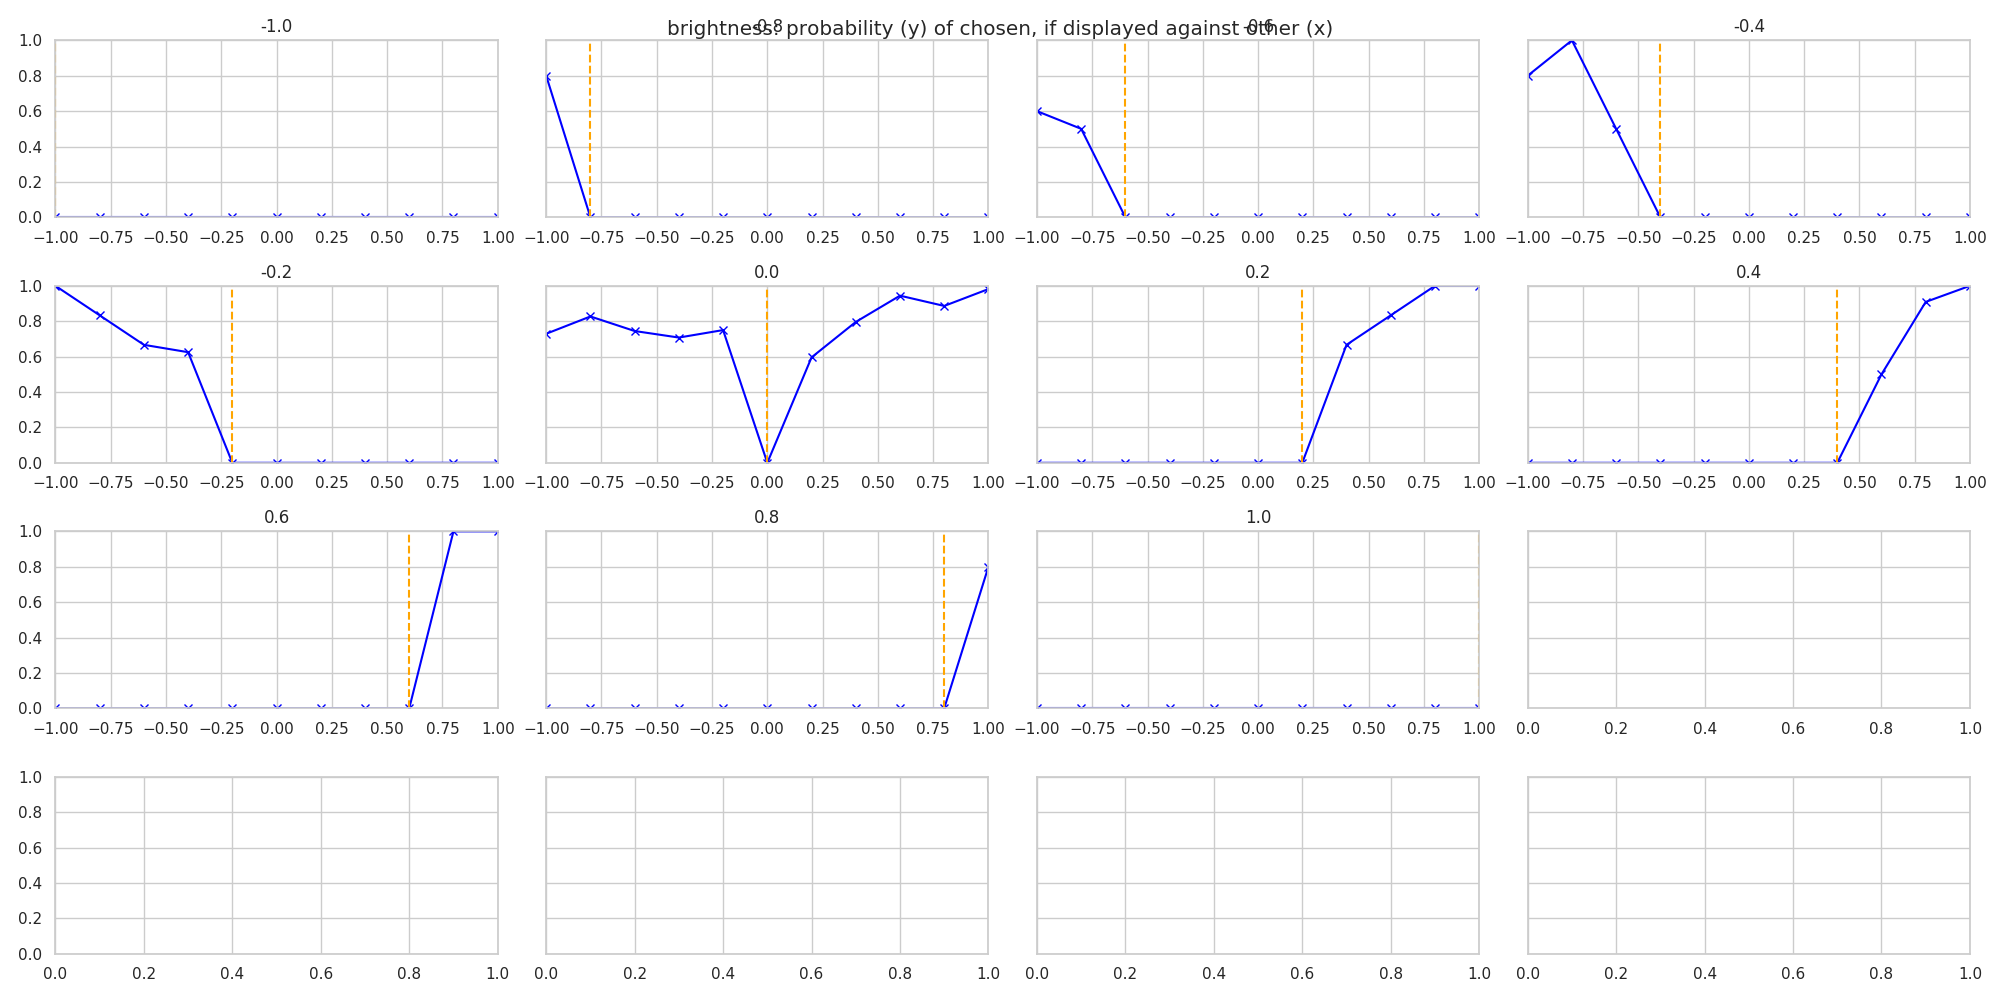
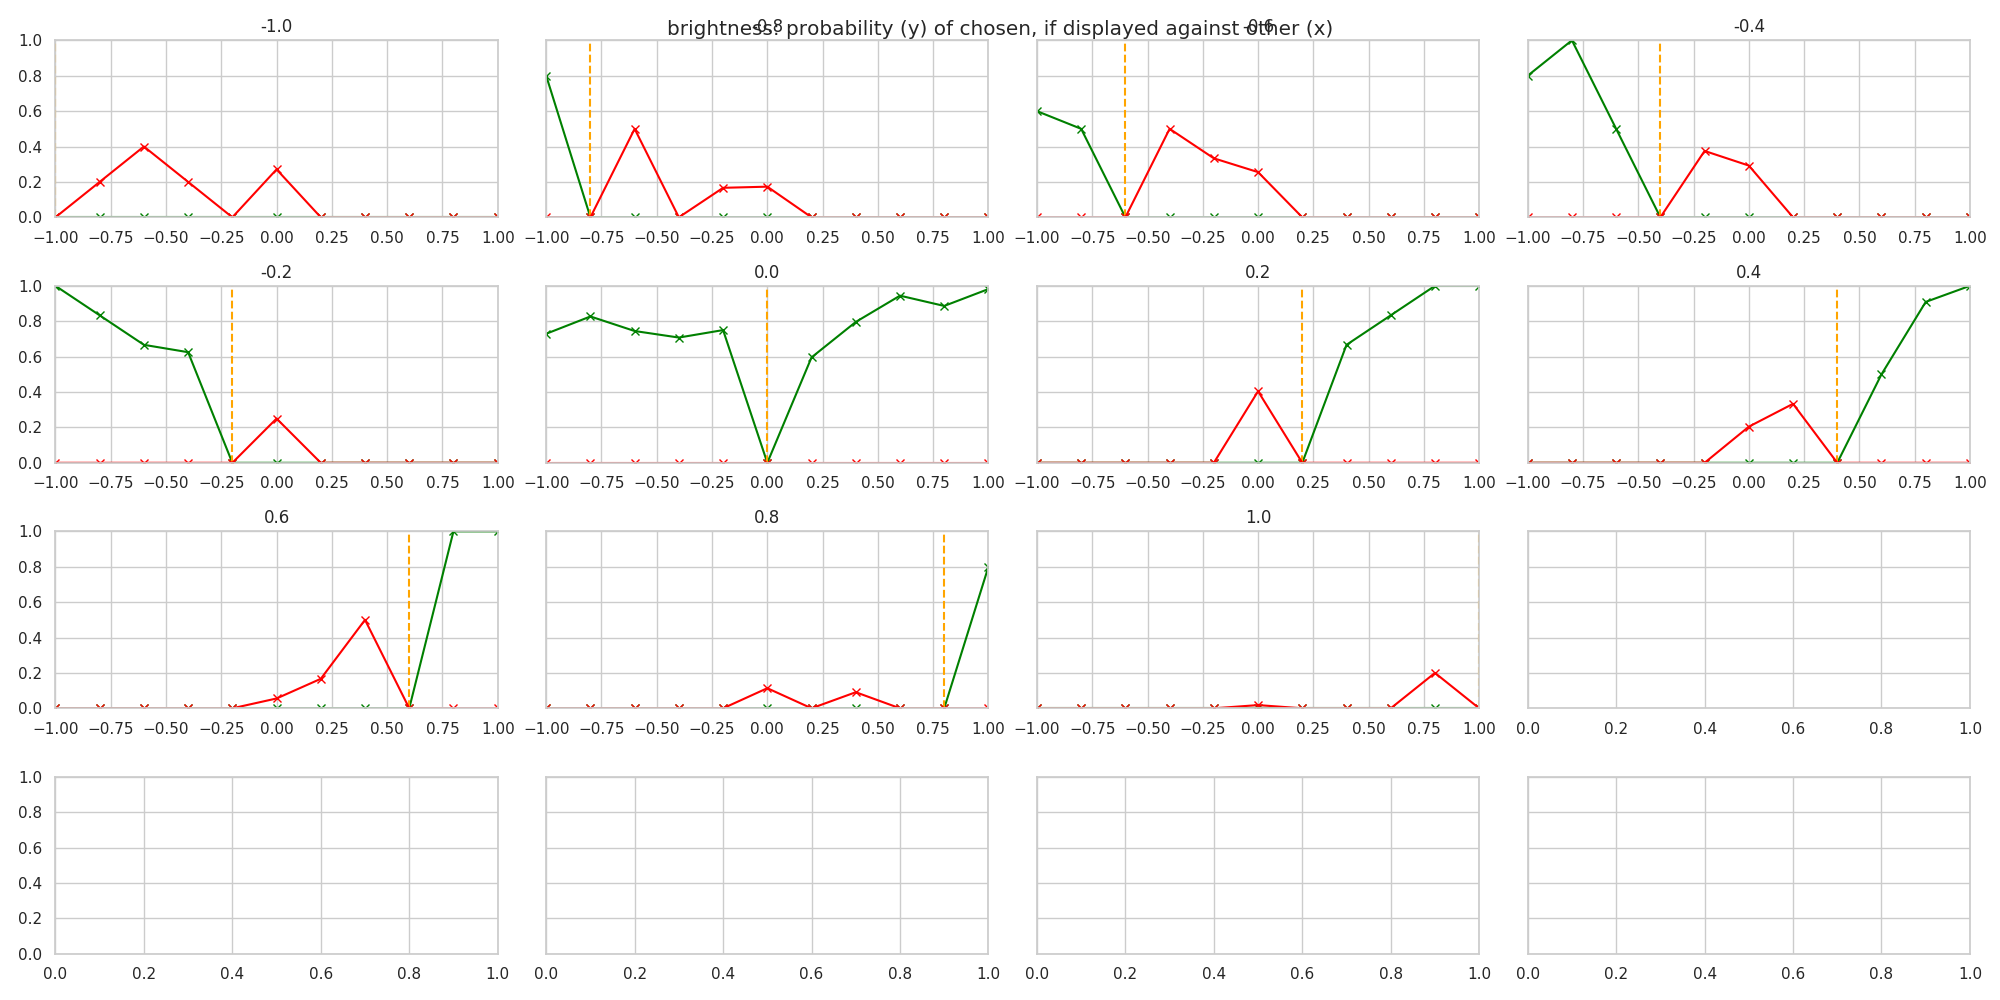
fixed graphs

diff --git a/survey/analyser.py b/survey/analyser.py
@@ -19,7 +19,7 @@ from edit_image import parameter_range
 sns.set(style="whitegrid")
 
 submission_log = Path.home() / "eclipse-workspace" / "NIAA" / "survey" / "survey.csv"  # type: Path
-submission_log = Path("/scratch") / "stud" / "pfister" / "NIAA" / "pexels" / "logs" / "survey_NIMA.csv"  # type: Path
+# submission_log = Path("/scratch") / "stud" / "pfister" / "NIAA" / "pexels" / "logs" / "survey_NIMA.csv"  # type: Path
 plot_dir = Path.home() / "eclipse-workspace" / "NIAA" / "analysis" / "survey"  # type: Path
 
 plot_dir.mkdir(parents=True, exist_ok=True)
@@ -153,14 +153,20 @@ for key in parameter_range.keys():
 
     chosenVS = tmp.groupby(["smallerChosen", "smallChange", "largeChange"])[["smallerChosen"]].size().to_frame("size").reset_index()
     allComparisons = tmp.groupby(["smallChange", "largeChange"])[["smallChange"]].size().to_frame("size").reset_index()
-
-    if "leftNIMA" in sub_df.columns and "rightNIMA" in sub_df.columns:
-        analyzeDict[key]["sameNIMA"] = tmp["sameNIMA"].value_counts().to_dict()
-
     for _, row in chosenVS[chosenVS.smallerChosen == True].iterrows():
         if len(allComparisons[(allComparisons.smallChange == row["smallChange"]) & (allComparisons.largeChange == row["largeChange"])]) > 1:
             raise KeyError("what?")
         analyzeDict[key]["asSmallerChosenVS"][row["smallChange"]][row["largeChange"]] = row["size"] / allComparisons[(allComparisons.smallChange == row["smallChange"]) & (allComparisons.largeChange == row["largeChange"])].iloc[0]["size"]
+
+    chosenVS = tmp.groupby(["largerChosen", "smallChange", "largeChange"])[["largerChosen"]].size().to_frame("size").reset_index()
+    allComparisons = tmp.groupby(["smallChange", "largeChange"])[["largeChange"]].size().to_frame("size").reset_index()
+    for _, row in chosenVS[chosenVS.largerChosen == True].iterrows():
+        if len(allComparisons[(allComparisons.smallChange == row["smallChange"]) & (allComparisons.largeChange == row["largeChange"])]) > 1:
+            raise KeyError("what?")
+        analyzeDict[key]["asLargerChosenVS"][row["largeChange"]][row["smallChange"]] = row["size"] / allComparisons[(allComparisons.smallChange == row["smallChange"]) & (allComparisons.largeChange == row["largeChange"])].iloc[0]["size"]
+
+    if "leftNIMA" in sub_df.columns and "rightNIMA" in sub_df.columns:
+        analyzeDict[key]["sameNIMA"] = tmp["sameNIMA"].value_counts().to_dict()
 
     for corr in [
         ("smallerChosenRelChangesPos", "occuredRelChangesPos"),
@@ -347,9 +353,22 @@ for i, key in enumerate(params):
         axs_small_vs[j].set_title(valSmall)
         axs_small_vs[j].set_xlim(left=min(parameter_range[key]["range"]), right=max(parameter_range[key]["range"]))
         axs_small_vs[j].set_ylim(bottom=0, top=1)
-        axs_small_vs[j].plot(x, y, "-x", color="blue", label="probability of chosen if displayed against")
+        axs_small_vs[j].plot(x, y, "-x", color="green", label="probability of chosen if displayed against")
         # axs_small_vs[j].axhline() # TODO
         axs_small_vs[j].axvline(x=valSmall, linestyle="--", color="orange", label="compared")
+
+    for j, valLarge in enumerate(parameter_range[key]["range"]):
+        x = []
+        y = []
+        if not valLarge in analyzeDict[key]["asLargerChosenVS"]:
+            x = parameter_range[key]["range"]
+            y = [0] * len(parameter_range[key]["range"])
+        else:
+            for valSmall in parameter_range[key]["range"]:
+                x.append(valSmall)
+                y.append(analyzeDict[key]["asLargerChosenVS"][valLarge].get(valSmall, 0))
+
+        axs_small_vs[j].plot(x, y, "-x", color="red", label="probability of chosen if displayed against")
 
     f_small_vs.tight_layout()
     f_small_vs.savefig(plot_dir / "small_vs" / f"{key}.png")
